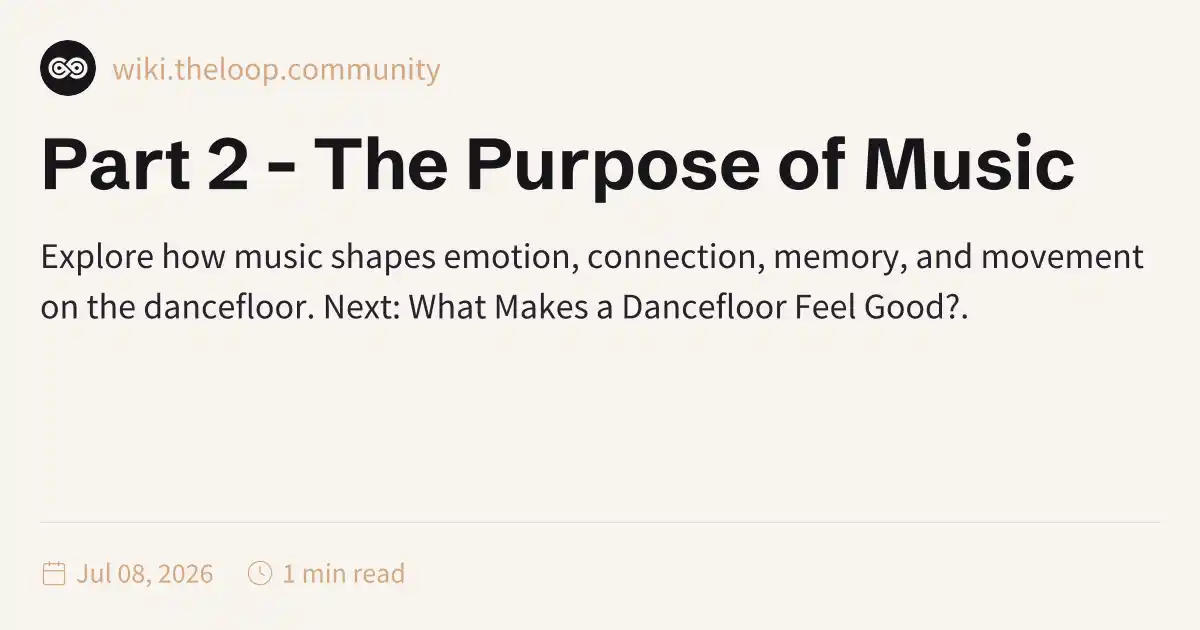
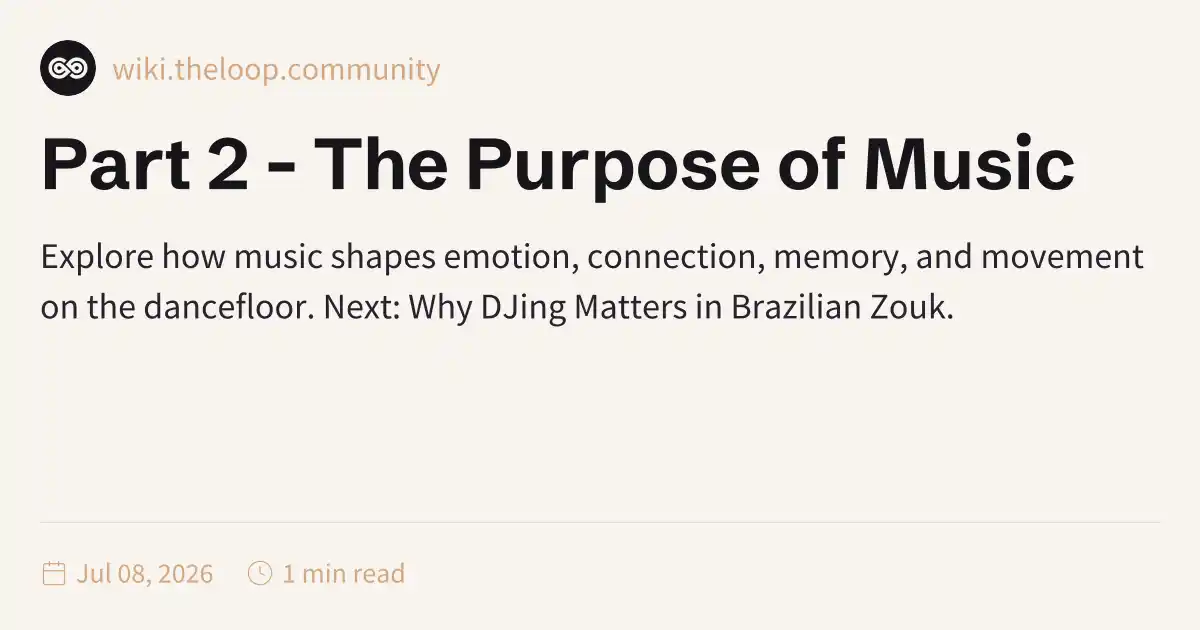
Updates

Changed region(s): [[0.37, 0.4524, 0.8017, 0.5127]]

diff --git a/the-loop-academy/01-foundations-of-djing/the-purpose-of-music.html b/the-loop-academy/01-foundations-of-djing/the-purpose-of-music.html
@@ -1,4 +1,4 @@
 <!DOCTYPE html>
-<html lang="en" dir="ltr"><head><title>Part 2 - The Purpose of Music</title><meta charset="utf-8"/><link rel="preload" href="../../index-780d3d3c.css" as="style"/><link rel="preload" href="../../prescript-23b01ef3.js" as="script"/><link rel="preconnect" href="https://fonts.googleapis.com"/><link rel="preconnect" href="https://fonts.gstatic.com"/><link rel="stylesheet" href="https://fonts.googleapis.com/css2?family=Schibsted Grotesk:wght@400;700&amp;family=Source Sans Pro:ital,wght@0,400;0,600;1,400;1,600&amp;family=IBM Plex Mono:wght@400;600&amp;display=swap"/><link rel="preconnect" href="https://cdnjs.cloudflare.com" crossorigin="anonymous"/><meta name="viewport" content="width=device-width, initial-scale=1.0"/><meta name="og:site_name" content="The Loop Wiki"/><meta property="og:title" content="Part 2 - The Purpose of Music"/><meta property="og:type" content="website"/><meta name="twitter:card" content="summary_large_image"/><meta name="twitter:title" content="Part 2 - The Purpose of Music"/><meta name="twitter:description" content="Explore how music shapes emotion, connection, memory, and movement on the dancefloor. Next: What Makes a Dancefloor Feel Good?."/><meta property="og:description" content="Explore how music shapes emotion, connection, memory, and movement on the dancefloor. Next: What Makes a Dancefloor Feel Good?."/><meta property="og:image:alt" content="Explore how music shapes emotion, connection, memory, and movement on the dancefloor. Next: What Makes a Dancefloor Feel Good?."/><meta property="twitter:domain" content="wiki.theloop.community"/><meta property="og:url" content="https://wiki.theloop.community/the-loop-academy/01-foundations-of-djing/the-purpose-of-music"/><meta property="twitter:url" content="https://wiki.theloop.community/the-loop-academy/01-foundations-of-djing/the-purpose-of-music"/><link rel="icon" href="../../static/icon.png"/><meta name="description" content="Explore how music shapes emotion, connection, memory, and movement on the dancefloor. Next: What Makes a Dancefloor Feel Good?."/><meta name="generator" content="Quartz"/><link href="../../index-780d3d3c.css" rel="stylesheet" type="text/css" data-persist="true"/><link href="../../component-735924e0.css" rel="stylesheet" type="text/css" data-persist="true"/><link href="../../component-589c1cea.css" rel="stylesheet" type="text/css" data-persist="true"/><link href="../../component-bbc3f7c0.css" rel="stylesheet" type="text/css" data-persist="true"/><link href="../../component-2911f5d1.css" rel="stylesheet" type="text/css" data-persist="true"/><link href="../../component-e427079e.css" rel="stylesheet" type="text/css" data-persist="true"/><link href="../../component-53b25b2b.css" rel="stylesheet" type="text/css" data-persist="true"/><link href="../../component-c93c6a44.css" rel="stylesheet" type="text/css" data-persist="true"/><link href="../../component-8a06014f.css" rel="stylesheet" type="text/css" data-persist="true"/><link href="../../component-77d6a441.css" rel="stylesheet" type="text/css" data-persist="true"/><link href="../../component-1482ccb4.css" rel="stylesheet" type="text/css" data-persist="true"/><link href="../../component-34bdfded.css" rel="stylesheet" type="text/css" data-persist="true"/><link href="../../component-788c9ca3.css" rel="stylesheet" type="text/css" data-persist="true"/><link href="../../component-642859cd.css" rel="stylesheet" type="text/css" data-persist="true"/><link href="../../component-4abc06bd.css" rel="stylesheet" type="text/css" data-persist="true"/><link href="../../component-274a3dfe.css" rel="stylesheet" type="text/css" data-persist="true"/><link href="../../component-94cb6c84.css" rel="stylesheet" type="text/css" data-persist="true"/><link href="../../component-58d5ff56.css" rel="stylesheet" type="text/css" data-persist="true"/><link href="../../component-9f9b2774.css" rel="stylesheet" type="text/css" data-persist="true"/><link href="../../component-7262b5a7.css" rel="stylesheet" type="text/css" data-persist="true"/><link href="../../static/resource-style-a12dcaa2.css" rel="stylesheet" type="text/css" data-persist="true"/><link href="../../static/resource-style-26a99b87.css" rel="stylesheet" type="text/css" data-persist="true"/><link href="../../static/resource-style-a5c806d2.css" rel="stylesheet" type="text/css" data-persist="true"/><link href="../../static/resource-style-6bd36952.css" rel="stylesheet" type="text/css" data-persist="true"/><link href="../../static/resource-style-9857b007.css" rel="stylesheet" type="text/css" data-persist="true"/><link href="../../static/resource-style-d3a1a224.css" rel="stylesheet" type="text/css" data-persist="true"/><link href="https://cdn.jsdelivr.net/npm/katex@0.16.11/dist/katex.min.css" rel="stylesheet" type="text/css" data-persist="true"/><script src="../../prescript-23b01ef3.js" type="application/javascript" data-persist="true"></script><script type="application/javascript" data-persist="true">const fetchData = fetch("../../static/contentIndex.json").then(data => data.json())</script><link rel="preconnect" href="https://fonts.googleapis.com"/><link rel="preconnect" href="https://fonts.gstatic.com" crossorigin="anonymous"/><link rel="stylesheet" href="https://fonts.googleapis.com/css2?family=Schibsted%20Grotesk%3Awght%40400%3B700&amp;family=Source%20Sans%20Pro%3Aital%2Cwght%400%2C400%3B0%2C600%3B1%2C400%3B1%2C600&amp;family=IBM%20Plex%20Mono%3Awght%40400%3B600&amp;display=swap"/><meta property="og:image:width" content="1200"/><meta property="og:image:height" content="630"/><meta property="og:image" content="https://wiki.theloop.community/the-loop-academy/01-foundations-of-djing/the-purpose-of-music-og-image.webp"/><meta property="og:image:url" content="https://wiki.theloop.community/the-loop-academy/01-foundations-of-djing/the-purpose-of-music-og-image.webp"/><meta name="twitter:image" content="https://wiki.theloop.community/the-loop-academy/01-foundations-of-djing/the-purpose-of-music-og-image.webp"/><meta property="og:image:type" content="image/webp"/></head><body data-slug="the-loop-academy/01-foundations-of-djing/the-purpose-of-music" data-basepath><div id="quartz-root" class="page" data-frame="default"><div id="quartz-body"><div class="left sidebar"><h2 class="page-title"><a href="../.."><span class="page-title-leading">The Loop </span><span class="page-title-last">Wiki</span></a></h2><div class="mobile-only"><div class="spacer"></div></div><div class="flex-component" style="flex-direction: row; flex-wrap: nowrap; gap: 0.5rem;"><div style="flex-grow: 1; flex-shrink: 1; flex-basis: auto; order: 0; align-self: center; justify-self: center;"><div class="search"><button class="search-button" aria-label="Search" aria-expanded="false"><svg role="img" xmlns="http://www.w3.org/2000/svg" viewBox="[phone redacted]"><title>Search</title><g class="search-path" fill="none"><path stroke-linecap="square" d="M18.5 18.3l-5.4-5.4"></path><circle cx="8" cy="8" r="7"></circle></g></svg><p>Search</p></button><div class="search-container"><div class="search-space"><input autocomplete="off" class="search-bar" name="search" type="text" aria-label="Search for something..." placeholder="Search for something..."/><div class="search-layout" data-preview="true" data-field-priority="[&quot;title&quot;,&quot;content&quot;,&quot;tags&quot;]"></div></div></div></div></div><div style="flex-grow: 0; flex-shrink: 1; flex-basis: auto; order: 0; align-self: center; justify-self: center;"><button class="darkmode" aria-label="Dark mode"><svg xmlns="http://www.w3.org/2000/svg" xmlns:xlink="http://www.w3.org/1999/xlink" version="1.1" class="dayIcon" x="0px" y="0px" viewBox="0 0 35 35" style="enable-background:new 0 0 35 35" xml:space="preserve" aria-label="Dark mode"><title>Dark mode</title><path d="M6,17.5C6,16.672,5.328,16,4.5,16h-3C0.672,16,0,16.672,0,17.5    S0.672,19,1.5,19h3C5.328,19,6,18.328,6,17.5z M7.5,26c-0.414,0-0.789,[phone redacted],0.439l-2,2C4.168,28.711,4,29.086,4,29.5    C4,30.328,4.671,31,5.5,31c0.414,0,[phone redacted],1.06-0.44l2-2C8.832,28.289,9,27.914,9,27.5C9,26.672,8.329,26,7.5,26z M17.5,6    C18.329,6,19,5.328,19,4.5v-3C19,0.672,18.329,0,17.5,0S16,0.672,16,1.5v3C16,5.328,16.671,6,17.5,6z M27.5,9    c0.414,0,[phone redacted],1.06-0.439l2-2C30.832,6.289,31,5.914,31,5.5C31,4.672,30.329,4,29.5,4c-0.414,0-0.789,[phone redacted],0.44    l-2,2C26.168,6.711,26,7.086,26,7.5C26,8.328,26.671,9,27.5,9z M6.439,8.561C6.711,8.832,7.086,9,7.5,9C8.328,9,9,8.328,9,7.5    c0-[phone redacted].439-1.061l-2-2C6.289,4.168,5.914,4,5.5,4C4.672,4,4,4.672,4,5.5c0,0.414,0.168,0.789,0.439,1.06    L6.439,8.561z M33.5,16h-3c-0.828,0-1.5,0.672-1.5,1.5s0.672,1.5,1.5,1.5h3c0.828,0,1.5-0.672,1.5-1.5S34.328,16,33.5,16z     M28.561,26.439C28.289,26.168,27.914,26,27.5,26c-0.828,0-1.5,0.672-1.5,1.5c0,0.414,0.168,0.789,0.439,1.06l2,2    C28.711,30.832,29.086,31,29.5,31c0.828,0,1.5-0.672,1.5-1.5c0-[phone redacted].439-1.061L28.561,26.439z M17.5,29    c-0.829,0-1.5,0.672-1.5,1.5v3c0,0.828,0.671,1.5,1.5,1.5s1.5-0.672,1.5-1.5v-3C19,29.672,18.329,29,17.5,29z M17.5,7    C11.71,7,7,11.71,7,17.5S11.71,28,17.5,28S28,23.29,28,17.5S23.29,7,17.5,7z M17.5,25c-4.136,[phone redacted]    c0-4.136,3.364-7.5,7.5-7.5c4.136,0,7.5,3.364,7.5,7.5C25,21.636,21.636,25,17.5,25z"></path></svg><svg xmlns="http://www.w3.org/2000/svg" xmlns:xlink="http://www.w3.org/1999/xlink" version="1.1" class="nightIcon" x="0px" y="0px" viewBox="[phone redacted]" style="enable-background:new [phone redacted]" xml:space="preserve" aria-label="Light mode"><title>Light mode</title><path d="M96.76,66.458c-[phone redacted]-3.23-0.534c-6.063,[phone redacted],[phone redacted],4.571  C62.022,70.495,50.88,65.88,42.5,57.5C29.043,44.043,25.658,23.536,34.076,6.47c0.532-1.08,[phone redacted]  c-[phone redacted]-3.23-0.534c-4.918,[phone redacted],[phone redacted],9.491c-9.447,[phone redacted],[phone redacted],35.369  c0,13.36,5.203,25.921,14.65,35.368s22.008,14.65,35.368,14.65c13.361,0,[phone redacted],[phone redacted]  c3.[phone redacted],[phone redacted],9.491-13.246C97.826,68.608,97.611,67.309,96.76,66.458z"></path></svg></button></div></div><div class="explorer nav-files-container" data-behavior="link" data-collapsed="collapsed" data-savestate="true" data-data-fns="{&quot;order&quot;:[&quot;filter&quot;,&quot;map&quot;,&quot;sort&quot;],&quot;sortFn&quot;:&quot;(a2, b2) => {\n    if (!a2.isFolder &amp;&amp; !b2.isFolder || a2.isFolder &amp;&amp; b2.isFolder) {\n      return (a2.displayName || \&quot;\&quot;).localeCompare(b2.displayName || \&quot;\&quot;, void 0, {\n        numeric: true,\n        sensitivity: \&quot;base\&quot;\n      });\n    }\n    if (!a2.isFolder &amp;&amp; b2.isFolder) {\n      return 1;\n    }\n    return -1;\n  }&quot;,&quot;filterFn&quot;:&quot;(node) => node.slugSegment !== \&quot;tags\&quot;&quot;,&quot;mapFn&quot;:&quot;(node) => {\n    return node;\n  }&quot;}"><button type="button" class="explorer-toggle mobile-explorer hide-until-loaded" data-mobile="true" aria-controls="explorer-5" aria-label="Explorer"><svg xmlns="http://www.w3.org/2000/svg" width="24" height="24" viewBox="0 0 24 24" stroke-width="2" stroke-linecap="round" stroke-linejoin="round" class="lucide-menu"><line x1="4" x2="20" y1="12" y2="12"></line><line x1="4" x2="20" y1="6" y2="6"></line><line x1="4" x2="20" y1="18" y2="18"></line></svg></button><button type="button" class="title-button explorer-toggle desktop-explorer" data-mobile="false" aria-expanded="true"><h2>Explorer</h2><svg xmlns="http://www.w3.org/2000/svg" width="14" height="14" viewBox="5 8 14 8" fill="none" stroke="currentColor" stroke-width="2" stroke-linecap="round" stroke-linejoin="round" class="fold"><polyline points="[phone redacted]"></polyline></svg></button><div id="explorer-5" class="explorer-content" aria-expanded="false" role="group"><ul class="explorer-ul overflow" id="list-0"><li class="overflow-end"></li></ul></div><template id="template-file"><li><a href="#" class="nav-file-title tree-item-self"></a></li></template><template id="template-folder"><li><div class="folder-container nav-folder-title tree-item-self"><svg xmlns="http://www.w3.org/2000/svg" width="12" height="12" viewBox="5 8 14 8" fill="none" stroke="currentColor" stroke-width="2" stroke-linecap="round" stroke-linejoin="round" class="folder-icon nav-folder-collapse-indicator collapse-icon"><polyline points="[phone redacted]"></polyline></svg><div><button class="folder-button"><span class="folder-title"></span></button></div></div><div class="folder-outer"><ul class="content tree-item-children"></ul></div></li></template></div></div><div class="center"><div class="page-header"><div class="popover-hint"><nav class="breadcrumb-container" aria-label="breadcrumbs"><div class="breadcrumb-element"><a href="../../">Home</a><p> ❯ </p></div><div class="breadcrumb-element"><a href="../../the-loop-academy/">The Loop Academy</a><p> ❯ </p></div><div class="breadcrumb-element"><a href="../../the-loop-academy/01-foundations-of-djing/">01 - Foundations of DJing</a><p> ❯ </p></div><div class="breadcrumb-element"><a href>Part 2 - The Purpose of Music</a></div></nav><h1 class="article-title">Part 2 - The Purpose of Music</h1><p show-comma="true" class="content-meta"><time datetime="2026-07-08T18:57:16.000Z">Jul 08, 2026</time><span>1 min read</span></p></div></div><article class="popover-hint"><div class="markdown-preview-view markdown-rendered"><p>Explore how music shapes emotion, connection, memory, and movement on the dancefloor.<br/>
+<html lang="en" dir="ltr"><head><title>Part 2 - The Purpose of Music</title><meta charset="utf-8"/><link rel="preload" href="../../index-780d3d3c.css" as="style"/><link rel="preload" href="../../prescript-23b01ef3.js" as="script"/><link rel="preconnect" href="https://fonts.googleapis.com"/><link rel="preconnect" href="https://fonts.gstatic.com"/><link rel="stylesheet" href="https://fonts.googleapis.com/css2?family=Schibsted Grotesk:wght@400;700&amp;family=Source Sans Pro:ital,wght@0,400;0,600;1,400;1,600&amp;family=IBM Plex Mono:wght@400;600&amp;display=swap"/><link rel="preconnect" href="https://cdnjs.cloudflare.com" crossorigin="anonymous"/><meta name="viewport" content="width=device-width, initial-scale=1.0"/><meta name="og:site_name" content="The Loop Wiki"/><meta property="og:title" content="Part 2 - The Purpose of Music"/><meta property="og:type" content="website"/><meta name="twitter:card" content="summary_large_image"/><meta name="twitter:title" content="Part 2 - The Purpose of Music"/><meta name="twitter:description" content="Explore how music shapes emotion, connection, memory, and movement on the dancefloor. Next: Why DJing Matters in Brazilian Zouk."/><meta property="og:description" content="Explore how music shapes emotion, connection, memory, and movement on the dancefloor. Next: Why DJing Matters in Brazilian Zouk."/><meta property="og:image:alt" content="Explore how music shapes emotion, connection, memory, and movement on the dancefloor. Next: Why DJing Matters in Brazilian Zouk."/><meta property="twitter:domain" content="wiki.theloop.community"/><meta property="og:url" content="https://wiki.theloop.community/the-loop-academy/01-foundations-of-djing/the-purpose-of-music"/><meta property="twitter:url" content="https://wiki.theloop.community/the-loop-academy/01-foundations-of-djing/the-purpose-of-music"/><link rel="icon" href="../../static/icon.png"/><meta name="description" content="Explore how music shapes emotion, connection, memory, and movement on the dancefloor. Next: Why DJing Matters in Brazilian Zouk."/><meta name="generator" content="Quartz"/><link href="../../index-780d3d3c.css" rel="stylesheet" type="text/css" data-persist="true"/><link href="../../component-735924e0.css" rel="stylesheet" type="text/css" data-persist="true"/><link href="../../component-589c1cea.css" rel="stylesheet" type="text/css" data-persist="true"/><link href="../../component-bbc3f7c0.css" rel="stylesheet" type="text/css" data-persist="true"/><link href="../../component-2911f5d1.css" rel="stylesheet" type="text/css" data-persist="true"/><link href="../../component-e427079e.css" rel="stylesheet" type="text/css" data-persist="true"/><link href="../../component-53b25b2b.css" rel="stylesheet" type="text/css" data-persist="true"/><link href="../../component-c93c6a44.css" rel="stylesheet" type="text/css" data-persist="true"/><link href="../../component-8a06014f.css" rel="stylesheet" type="text/css" data-persist="true"/><link href="../../component-77d6a441.css" rel="stylesheet" type="text/css" data-persist="true"/><link href="../../component-1482ccb4.css" rel="stylesheet" type="text/css" data-persist="true"/><link href="../../component-34bdfded.css" rel="stylesheet" type="text/css" data-persist="true"/><link href="../../component-788c9ca3.css" rel="stylesheet" type="text/css" data-persist="true"/><link href="../../component-642859cd.css" rel="stylesheet" type="text/css" data-persist="true"/><link href="../../component-4abc06bd.css" rel="stylesheet" type="text/css" data-persist="true"/><link href="../../component-274a3dfe.css" rel="stylesheet" type="text/css" data-persist="true"/><link href="../../component-94cb6c84.css" rel="stylesheet" type="text/css" data-persist="true"/><link href="../../component-58d5ff56.css" rel="stylesheet" type="text/css" data-persist="true"/><link href="../../component-9f9b2774.css" rel="stylesheet" type="text/css" data-persist="true"/><link href="../../component-7262b5a7.css" rel="stylesheet" type="text/css" data-persist="true"/><link href="../../static/resource-style-a12dcaa2.css" rel="stylesheet" type="text/css" data-persist="true"/><link href="../../static/resource-style-26a99b87.css" rel="stylesheet" type="text/css" data-persist="true"/><link href="../../static/resource-style-a5c806d2.css" rel="stylesheet" type="text/css" data-persist="true"/><link href="../../static/resource-style-6bd36952.css" rel="stylesheet" type="text/css" data-persist="true"/><link href="../../static/resource-style-9857b007.css" rel="stylesheet" type="text/css" data-persist="true"/><link href="../../static/resource-style-d3a1a224.css" rel="stylesheet" type="text/css" data-persist="true"/><link href="https://cdn.jsdelivr.net/npm/katex@0.16.11/dist/katex.min.css" rel="stylesheet" type="text/css" data-persist="true"/><script src="../../prescript-23b01ef3.js" type="application/javascript" data-persist="true"></script><script type="application/javascript" data-persist="true">const fetchData = fetch("../../static/contentIndex.json").then(data => data.json())</script><link rel="preconnect" href="https://fonts.googleapis.com"/><link rel="preconnect" href="https://fonts.gstatic.com" crossorigin="anonymous"/><link rel="stylesheet" href="https://fonts.googleapis.com/css2?family=Schibsted%20Grotesk%3Awght%40400%3B700&amp;family=Source%20Sans%20Pro%3Aital%2Cwght%400%2C400%3B0%2C600%3B1%2C400%3B1%2C600&amp;family=IBM%20Plex%20Mono%3Awght%40400%3B600&amp;display=swap"/><meta property="og:image:width" content="1200"/><meta property="og:image:height" content="630"/><meta property="og:image" content="https://wiki.theloop.community/the-loop-academy/01-foundations-of-djing/the-purpose-of-music-og-image.webp"/><meta property="og:image:url" content="https://wiki.theloop.community/the-loop-academy/01-foundations-of-djing/the-purpose-of-music-og-image.webp"/><meta name="twitter:image" content="https://wiki.theloop.community/the-loop-academy/01-foundations-of-djing/the-purpose-of-music-og-image.webp"/><meta property="og:image:type" content="image/webp"/></head><body data-slug="the-loop-academy/01-foundations-of-djing/the-purpose-of-music" data-basepath><div id="quartz-root" class="page" data-frame="default"><div id="quartz-body"><div class="left sidebar"><h2 class="page-title"><a href="../.."><span class="page-title-leading">The Loop </span><span class="page-title-last">Wiki</span></a></h2><div class="mobile-only"><div class="spacer"></div></div><div class="flex-component" style="flex-direction: row; flex-wrap: nowrap; gap: 0.5rem;"><div style="flex-grow: 1; flex-shrink: 1; flex-basis: auto; order: 0; align-self: center; justify-self: center;"><div class="search"><button class="search-button" aria-label="Search" aria-expanded="false"><svg role="img" xmlns="http://www.w3.org/2000/svg" viewBox="[phone redacted]"><title>Search</title><g class="search-path" fill="none"><path stroke-linecap="square" d="M18.5 18.3l-5.4-5.4"></path><circle cx="8" cy="8" r="7"></circle></g></svg><p>Search</p></button><div class="search-container"><div class="search-space"><input autocomplete="off" class="search-bar" name="search" type="text" aria-label="Search for something..." placeholder="Search for something..."/><div class="search-layout" data-preview="true" data-field-priority="[&quot;title&quot;,&quot;content&quot;,&quot;tags&quot;]"></div></div></div></div></div><div style="flex-grow: 0; flex-shrink: 1; flex-basis: auto; order: 0; align-self: center; justify-self: center;"><button class="darkmode" aria-label="Dark mode"><svg xmlns="http://www.w3.org/2000/svg" xmlns:xlink="http://www.w3.org/1999/xlink" version="1.1" class="dayIcon" x="0px" y="0px" viewBox="0 0 35 35" style="enable-background:new 0 0 35 35" xml:space="preserve" aria-label="Dark mode"><title>Dark mode</title><path d="M6,17.5C6,16.672,5.328,16,4.5,16h-3C0.672,16,0,16.672,0,17.5    S0.672,19,1.5,19h3C5.328,19,6,18.328,6,17.5z M7.5,26c-0.414,0-0.789,[phone redacted],0.439l-2,2C4.168,28.711,4,29.086,4,29.5    C4,30.328,4.671,31,5.5,31c0.414,0,[phone redacted],1.06-0.44l2-2C8.832,28.289,9,27.914,9,27.5C9,26.672,8.329,26,7.5,26z M17.5,6    C18.329,6,19,5.328,19,4.5v-3C19,0.672,18.329,0,17.5,0S16,0.672,16,1.5v3C16,5.328,16.671,6,17.5,6z M27.5,9    c0.414,0,[phone redacted],1.06-0.439l2-2C30.832,6.289,31,5.914,31,5.5C31,4.672,30.329,4,29.5,4c-0.414,0-0.789,[phone redacted],0.44    l-2,2C26.168,6.711,26,7.086,26,7.5C26,8.328,26.671,9,27.5,9z M6.439,8.561C6.711,8.832,7.086,9,7.5,9C8.328,9,9,8.328,9,7.5    c0-[phone redacted].439-1.061l-2-2C6.289,4.168,5.914,4,5.5,4C4.672,4,4,4.672,4,5.5c0,0.414,0.168,0.789,0.439,1.06    L6.439,8.561z M33.5,16h-3c-0.828,0-1.5,0.672-1.5,1.5s0.672,1.5,1.5,1.5h3c0.828,0,1.5-0.672,1.5-1.5S34.328,16,33.5,16z     M28.561,26.439C28.289,26.168,27.914,26,27.5,26c-0.828,0-1.5,0.672-1.5,1.5c0,0.414,0.168,0.789,0.439,1.06l2,2    C28.711,30.832,29.086,31,29.5,31c0.828,0,1.5-0.672,1.5-1.5c0-[phone redacted].439-1.061L28.561,26.439z M17.5,29    c-0.829,0-1.5,0.672-1.5,1.5v3c0,0.828,0.671,1.5,1.5,1.5s1.5-0.672,1.5-1.5v-3C19,29.672,18.329,29,17.5,29z M17.5,7    C11.71,7,7,11.71,7,17.5S11.71,28,17.5,28S28,23.29,28,17.5S23.29,7,17.5,7z M17.5,25c-4.136,[phone redacted]    c0-4.136,3.364-7.5,7.5-7.5c4.136,0,7.5,3.364,7.5,7.5C25,21.636,21.636,25,17.5,25z"></path></svg><svg xmlns="http://www.w3.org/2000/svg" xmlns:xlink="http://www.w3.org/1999/xlink" version="1.1" class="nightIcon" x="0px" y="0px" viewBox="[phone redacted]" style="enable-background:new [phone redacted]" xml:space="preserve" aria-label="Light mode"><title>Light mode</title><path d="M96.76,66.458c-[phone redacted]-3.23-0.534c-6.063,[phone redacted],[phone redacted],4.571  C62.022,70.495,50.88,65.88,42.5,57.5C29.043,44.043,25.658,23.536,34.076,6.47c0.532-1.08,[phone redacted]  c-[phone redacted]-3.23-0.534c-4.918,[phone redacted],[phone redacted],9.491c-9.447,[phone redacted],[phone redacted],35.369  c0,13.36,5.203,25.921,14.65,35.368s22.008,14.65,35.368,14.65c13.361,0,[phone redacted],[phone redacted]  c3.[phone redacted],[phone redacted],9.491-13.246C97.826,68.608,97.611,67.309,96.76,66.458z"></path></svg></button></div></div><div class="explorer nav-files-container" data-behavior="link" data-collapsed="collapsed" data-savestate="true" data-data-fns="{&quot;order&quot;:[&quot;filter&quot;,&quot;map&quot;,&quot;sort&quot;],&quot;sortFn&quot;:&quot;(a2, b2) => {\n    if (!a2.isFolder &amp;&amp; !b2.isFolder || a2.isFolder &amp;&amp; b2.isFolder) {\n      return (a2.displayName || \&quot;\&quot;).localeCompare(b2.displayName || \&quot;\&quot;, void 0, {\n        numeric: true,\n        sensitivity: \&quot;base\&quot;\n      });\n    }\n    if (!a2.isFolder &amp;&amp; b2.isFolder) {\n      return 1;\n    }\n    return -1;\n  }&quot;,&quot;filterFn&quot;:&quot;(node) => node.slugSegment !== \&quot;tags\&quot;&quot;,&quot;mapFn&quot;:&quot;(node) => {\n    return node;\n  }&quot;}"><button type="button" class="explorer-toggle mobile-explorer hide-until-loaded" data-mobile="true" aria-controls="explorer-5" aria-label="Explorer"><svg xmlns="http://www.w3.org/2000/svg" width="24" height="24" viewBox="0 0 24 24" stroke-width="2" stroke-linecap="round" stroke-linejoin="round" class="lucide-menu"><line x1="4" x2="20" y1="12" y2="12"></line><line x1="4" x2="20" y1="6" y2="6"></line><line x1="4" x2="20" y1="18" y2="18"></line></svg></button><button type="button" class="title-button explorer-toggle desktop-explorer" data-mobile="false" aria-expanded="true"><h2>Explorer</h2><svg xmlns="http://www.w3.org/2000/svg" width="14" height="14" viewBox="5 8 14 8" fill="none" stroke="currentColor" stroke-width="2" stroke-linecap="round" stroke-linejoin="round" class="fold"><polyline points="[phone redacted]"></polyline></svg></button><div id="explorer-5" class="explorer-content" aria-expanded="false" role="group"><ul class="explorer-ul overflow" id="list-0"><li class="overflow-end"></li></ul></div><template id="template-file"><li><a href="#" class="nav-file-title tree-item-self"></a></li></template><template id="template-folder"><li><div class="folder-container nav-folder-title tree-item-self"><svg xmlns="http://www.w3.org/2000/svg" width="12" height="12" viewBox="5 8 14 8" fill="none" stroke="currentColor" stroke-width="2" stroke-linecap="round" stroke-linejoin="round" class="folder-icon nav-folder-collapse-indicator collapse-icon"><polyline points="[phone redacted]"></polyline></svg><div><button class="folder-button"><span class="folder-title"></span></button></div></div><div class="folder-outer"><ul class="content tree-item-children"></ul></div></li></template></div></div><div class="center"><div class="page-header"><div class="popover-hint"><nav class="breadcrumb-container" aria-label="breadcrumbs"><div class="breadcrumb-element"><a href="../../">Home</a><p> ❯ </p></div><div class="breadcrumb-element"><a href="../../the-loop-academy/">The Loop Academy</a><p> ❯ </p></div><div class="breadcrumb-element"><a href="../../the-loop-academy/01-foundations-of-djing/">01 - Foundations of DJing</a><p> ❯ </p></div><div class="breadcrumb-element"><a href>Part 2 - The Purpose of Music</a></div></nav><h1 class="article-title">Part 2 - The Purpose of Music</h1><p show-comma="true" class="content-meta"><time datetime="2026-07-08T18:57:16.000Z">Jul 08, 2026</time><span>1 min read</span></p></div></div><article class="popover-hint"><div class="markdown-preview-view markdown-rendered"><p>Explore how music shapes emotion, connection, memory, and movement on the dancefloor.<br/>
 <iframe class="external-embed youtube" allow="fullscreen" frameborder="0" width="600px" src="https://www.youtube.com/embed/5-zwR6W4Ir4"></iframe><br/>
-Next: <a href="../../the-loop-academy/01-foundations-of-djing/what-makes-a-dancefloor-feel-good" class="internal internal-link alias" data-slug="the-loop-academy/01-foundations-of-djing/what-makes-a-dancefloor-feel-good">What Makes a Dancefloor Feel Good?</a></p></div></article><hr/><div class="page-footer"></div></div><div class="right sidebar"></div><footer class><p><a href="https://theloop.community">The Loop</a> © 2026 - Created with <a href="https://quartz.jzhao.xyz/">Quartz v5.0.0</a></p></footer></div></div></body><script src="../../static/resource-after-e13fffa1.js" type="application/javascript" data-persist="true"></script><script src="../../static/resource-after-8b336f9a.js" type="application/javascript" data-persist="true"></script><script src="../../static/resource-after-baba652b.js" type="application/javascript" data-persist="true"></script><script src="../../static/resource-after-5eb75950.js" type="module" data-persist="true"></script><script src="https://cdn.jsdelivr.net/npm/katex@0.16.11/dist/contrib/copy-tex.min.js" type="application/javascript" data-persist="true"></script><script src="../../postscript-1239e462.js" type="module" data-persist="true"></script></html>
+Next: <a href="../../the-loop-academy/01-foundations-of-djing/why-djing-matters-in-brazilian-zouk" class="internal internal-link alias" data-slug="the-loop-academy/01-foundations-of-djing/why-djing-matters-in-brazilian-zouk">Why DJing Matters in Brazilian Zouk</a></p></div></article><hr/><div class="page-footer"></div></div><div class="right sidebar"></div><footer class><p><a href="https://theloop.community">The Loop</a> © 2026 - Created with <a href="https://quartz.jzhao.xyz/">Quartz v5.0.0</a></p></footer></div></div></body><script src="../../static/resource-after-e13fffa1.js" type="application/javascript" data-persist="true"></script><script src="../../static/resource-after-8b336f9a.js" type="application/javascript" data-persist="true"></script><script src="../../static/resource-after-baba652b.js" type="application/javascript" data-persist="true"></script><script src="../../static/resource-after-5eb75950.js" type="module" data-persist="true"></script><script src="https://cdn.jsdelivr.net/npm/katex@0.16.11/dist/contrib/copy-tex.min.js" type="application/javascript" data-persist="true"></script><script src="../../postscript-1239e462.js" type="module" data-persist="true"></script></html>

diff --git a/the-loop-academy/02-music-discovery--and--identity/index.html b/the-loop-academy/02-music-discovery--and--identity/index.html
@@ -1,2 +1,2 @@
 <!DOCTYPE html>
[2 lines of base64/hex data omitted]

diff --git a/the-loop-academy/03-music-organization--and--preparation/index.html b/the-loop-academy/03-music-organization--and--preparation/index.html
@@ -1,2 +1,2 @@
 <!DOCTYPE html>
[2 lines of base64/hex data omitted]

diff --git a/the-loop-academy/04-dj-software-and-hardware-basics/index.html b/the-loop-academy/04-dj-software-and-hardware-basics/index.html
@@ -1,2 +1,2 @@
 <!DOCTYPE html>
[2 lines of base64/hex data omitted]

diff --git a/the-loop-academy/05-mixing-fundamentals/index.html b/the-loop-academy/05-mixing-fundamentals/index.html
@@ -1,2 +1,2 @@
 <!DOCTYPE html>
[2 lines of base64/hex data omitted]

diff --git a/the-loop-academy/06-reading-the-room/index.html b/the-loop-academy/06-reading-the-room/index.html
@@ -1,2 +1,2 @@
 <!DOCTYPE html>
[2 lines of base64/hex data omitted]

diff --git a/the-loop-academy/07-performing-at-events/index.html b/the-loop-academy/07-performing-at-events/index.html
@@ -1,2 +1,2 @@
 <!DOCTYPE html>
[2 lines of base64/hex data omitted]

diff --git a/the-loop-academy/08-advanced-mixing/index.html b/the-loop-academy/08-advanced-mixing/index.html
@@ -1,2 +1,2 @@
 <!DOCTYPE html>
[2 lines of base64/hex data omitted]

diff --git a/the-loop-academy/09-creativity-in-djing/index.html b/the-loop-academy/09-creativity-in-djing/index.html
@@ -1,2 +1,2 @@
 <!DOCTYPE html>
[2 lines of base64/hex data omitted]

diff --git a/the-loop-academy/10-cohort-choice-(tbd)/index.html b/the-loop-academy/10-cohort-choice-(tbd)/index.html
@@ -1,2 +1,2 @@
 <!DOCTYPE html>
[2 lines of base64/hex data omitted]

diff --git a/the-loop-academy/11-building-your-brand/index.html b/the-loop-academy/11-building-your-brand/index.html
@@ -1,2 +1,2 @@
 <!DOCTYPE html>
[2 lines of base64/hex data omitted]

diff --git a/the-loop-academy/12-final-project/index.html b/the-loop-academy/12-final-project/index.html
@@ -1,2 +1,2 @@
 <!DOCTYPE html>
[2 lines of base64/hex data omitted]